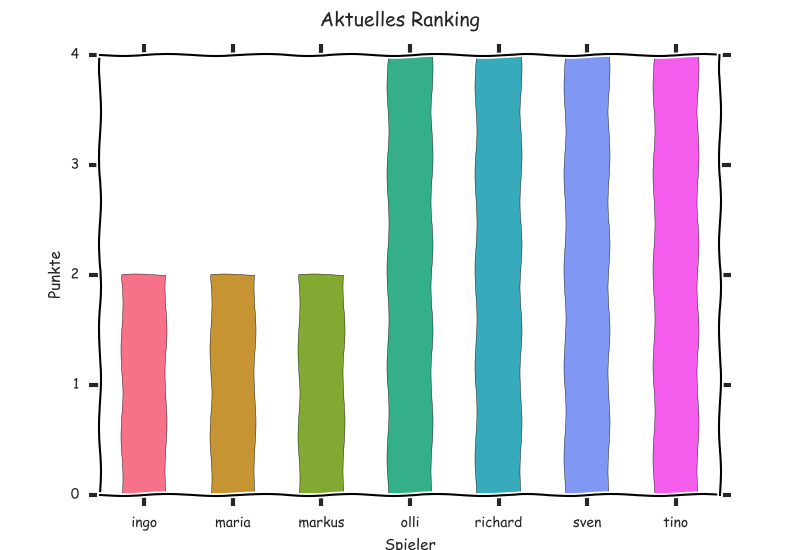
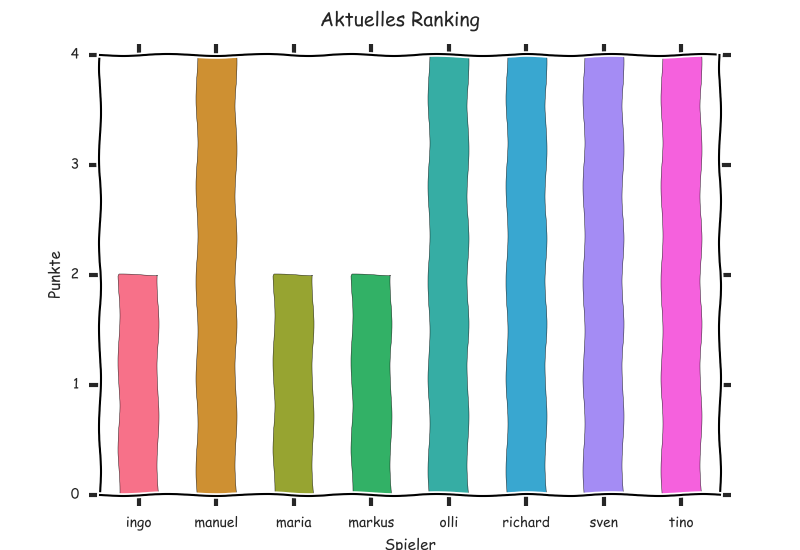
added manuel.txt

diff --git a/tippspiel.py b/tippspiel.py
@@ -8,6 +8,7 @@ import matplotlib.pyplot as plt
 import matplotlib.dates as dates
 import matplotlib.ticker as ticker
 import seaborn as sns
+import datetime
 from itertools import repeat
 from operator import sub
 
@@ -122,12 +123,13 @@ def update_data():
     else:
         df = pd.DataFrame()
     df = df.append(series)
-    #df.drop_duplicates(inplace=True)
 
     ax = df.plot(sort_columns=True, rot=0, color=colors, marker='o')
-    ax.xaxis.set_major_locator(dates.WeekdayLocator(byweekday=range(1, 8), interval=1))
+    date1 = datetime.datetime(2016, 6, 10)
+    date2 = datetime.datetime(2016, 7, 11)
     ax.xaxis.set_major_formatter(dates.DateFormatter('%d.%m'))
     ax.set_ylim([0, 1.1*max(series)])
+    ax.set_xlim(date1, date2)
     ax.yaxis.set_major_locator(ticker.MaxNLocator(integer=True))
 
     fig = ax.get_figure()
